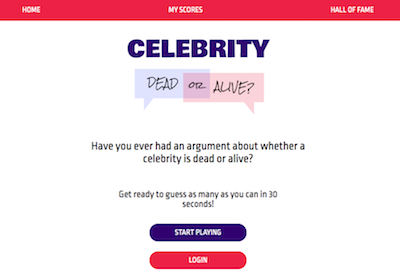
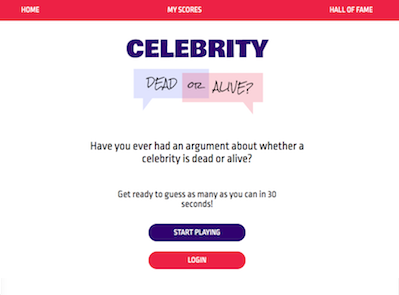
updated project thumbnails

diff --git a/src/pages/projects.js b/src/pages/projects.js
@@ -32,7 +32,7 @@ const Projects = () => {
             details
             image {
               childImageSharp {
-                fluid(quality: 100, maxWidth: 200) {
+                fluid(quality: 100) {
                   ...GatsbyImageSharpFluid
                 }
               }
